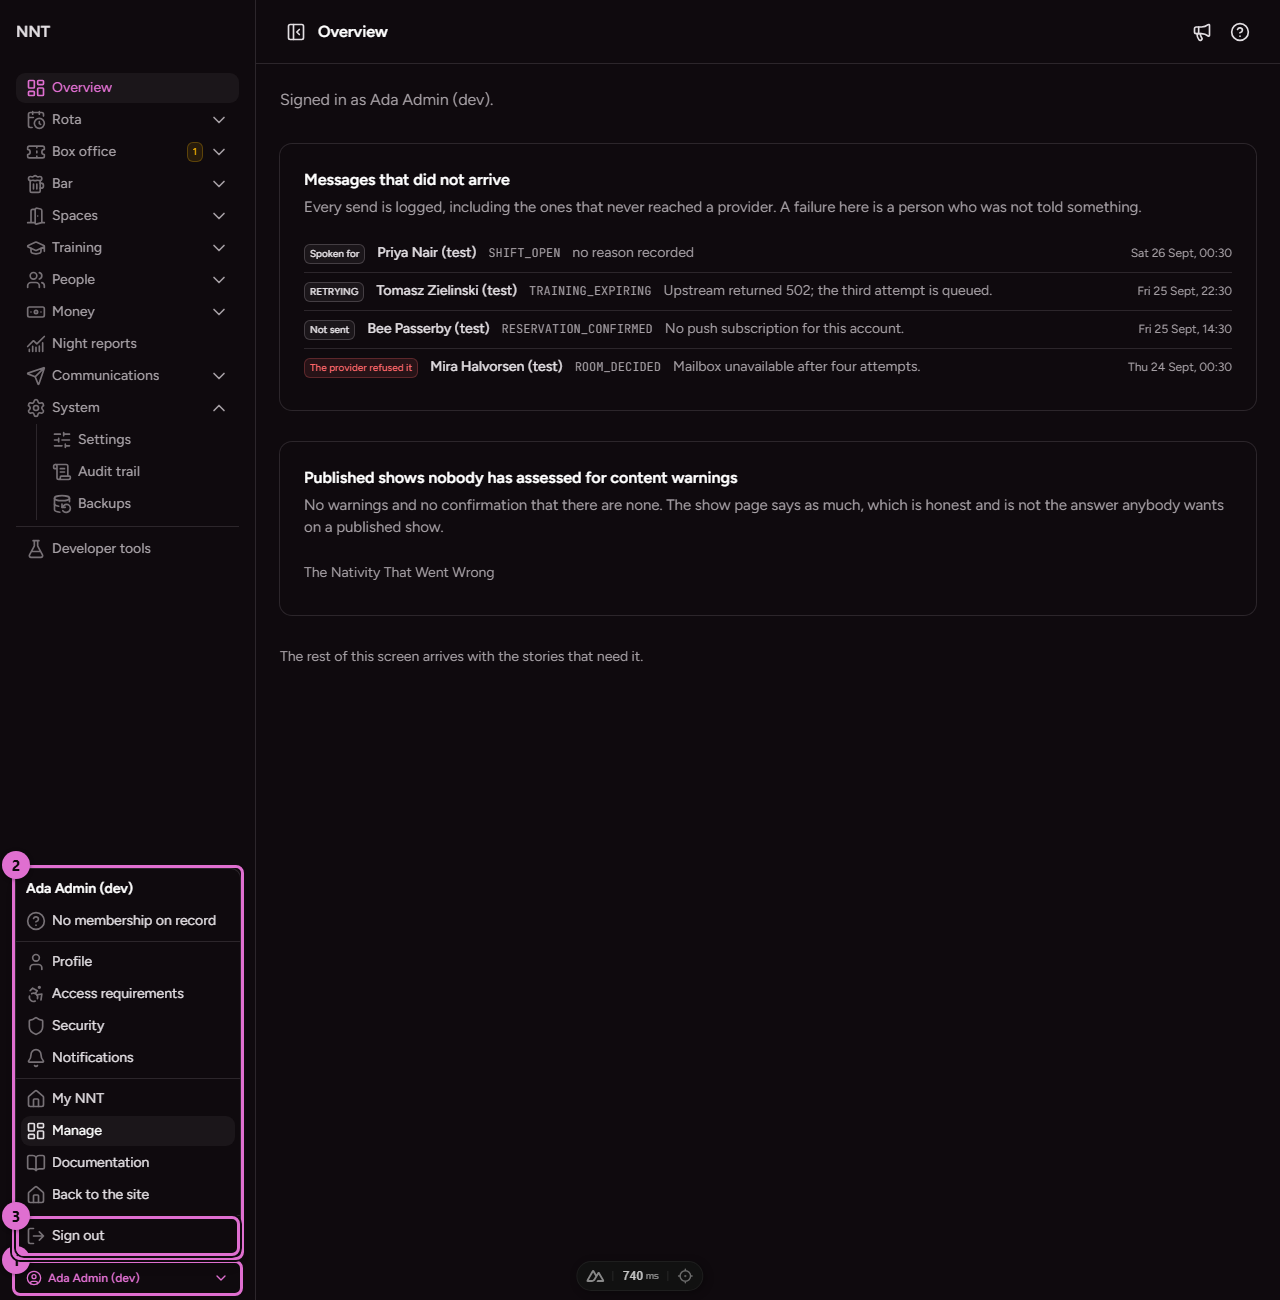
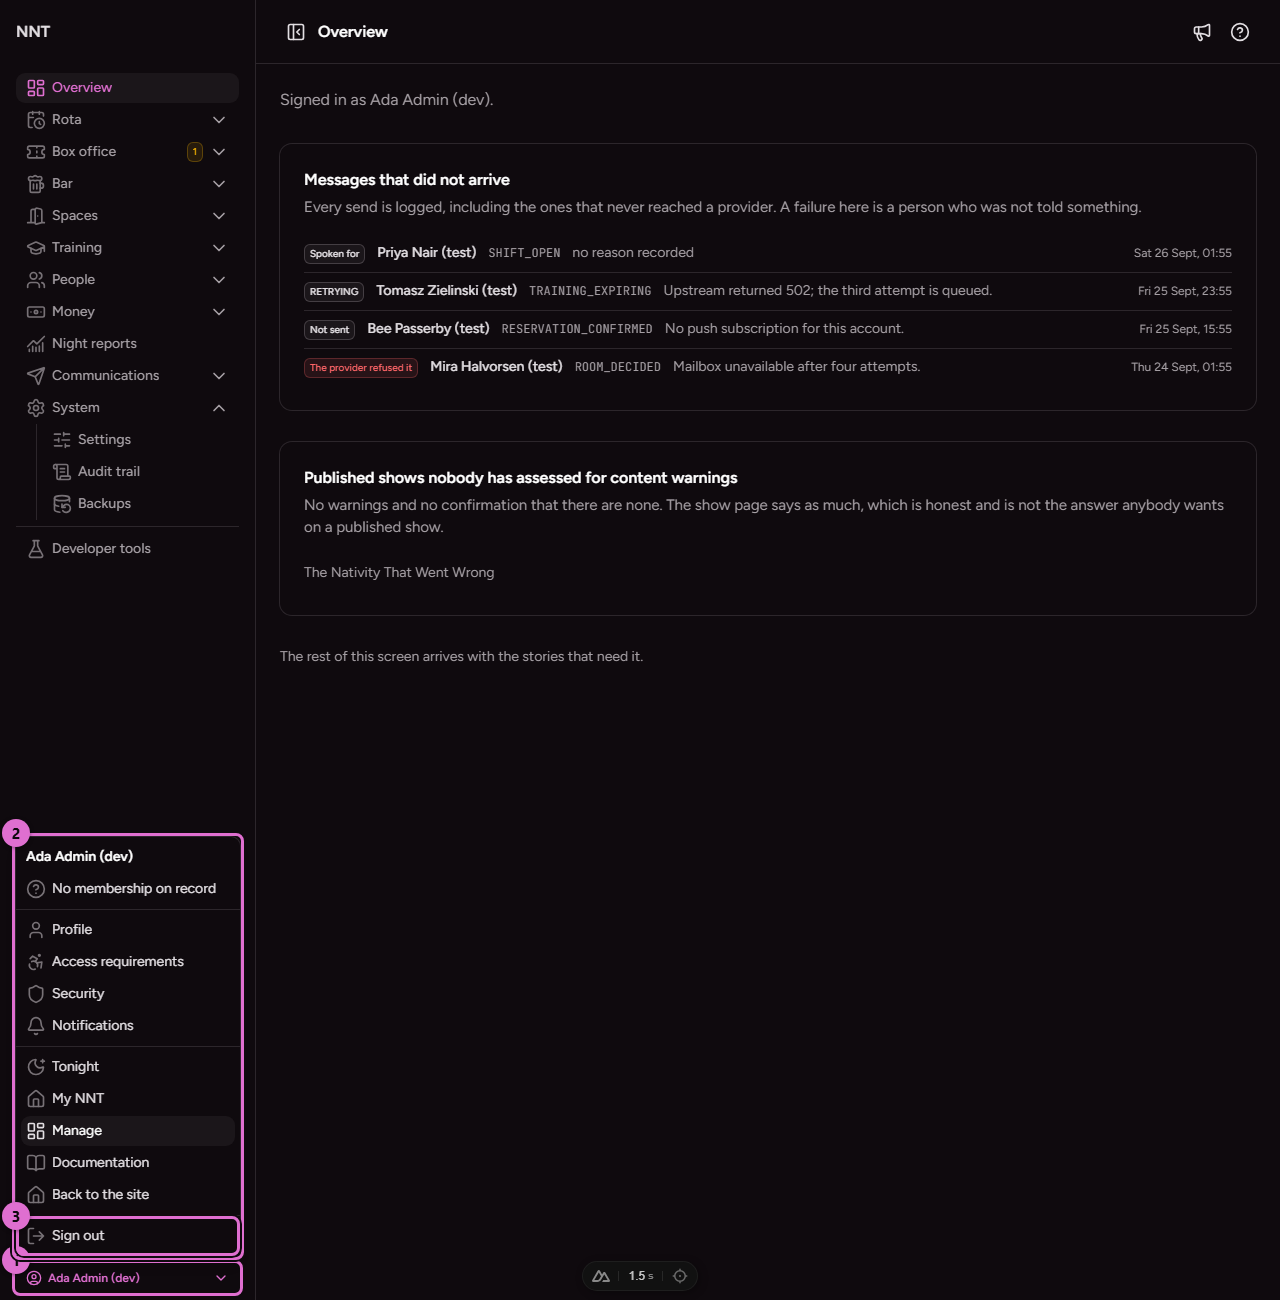
Offer Tonight in the member strip by the same fact, carry the bar tab fact through both resolvers, and retake the account menu picture
After the member nav change merged: MY_NAV's Tonight entry reads canWorkTonight,
both session resolvers pass keepsBarTab beside the new onShiftTonight, and the
wiki's member strip line covers officers who hold a night permission.

Changed region(s): [[0.0, 0.6154, 0.1875, 0.8308], [0.875, 0.2462, 0.9375, 0.3077], [0.9062, 0.1846, 0.9375, 0.2154]]

diff --git a/tests/unit/site-nav.test.ts b/tests/unit/site-nav.test.ts
@@ -1,6 +1,6 @@
 import { describe, expect, test } from 'bun:test'
 import { join } from 'node:path'
-import { ABILITY_PERMISSIONS, keepBarTab, signedIn, viewReports, workTonight } from '#shared/utils/abilities'
+import { ABILITY_PERMISSIONS, canWorkTonight, keepBarTab, signedIn, viewReports } from '#shared/utils/abilities'
 import { contentPathOf } from '#shared/utils/docs-paths'
 import { PERMISSIONS } from '#shared/utils/roles'
 import { ACCOUNT_NAV, CONSOLE_HOME, CONSOLE_NAV, HEADER_NAV, MY_NAV, NAV_SECTIONS, PUBLIC_GROUPS, PUBLIC_NAV, SHELL_NAV, entryFor, groupFor, navCount } from '#shared/utils/site-nav'
@@ -240,7 +240,7 @@ describe('the members area and the account settings never overlap (K-127 criteri
   test('Tonight is there while the member works tonight, and the bar tab only for somebody who keeps one', () => {
     const conditional = MY_NAV.filter(entry => entry.ability !== signedIn)
     expect(conditional.map(entry => entry.to)).toEqual(['/tonight', '/account/bar-tab'])
-    expect(conditional.find(entry => entry.to === '/tonight')?.ability).toBe(workTonight)
+    expect(conditional.find(entry => entry.to === '/tonight')?.ability).toBe(canWorkTonight)
     expect(conditional.find(entry => entry.to === '/account/bar-tab')).toMatchObject({ label: 'Bar tab', ability: keepBarTab })
   })
 

diff --git a/tests/unit/work-tonight.test.ts b/tests/unit/work-tonight.test.ts
@@ -12,7 +12,7 @@ import type { Permission } from '#shared/utils/roles'
 // amending 0040, issue 1305). The query behind `onShiftTonight` is pinned in tests/integration.
 
 const viewer = (onShiftTonight: boolean, permissions: Permission[] = []): Viewer =>
-  ({ id: 'someone', permissions, onShiftTonight, leadsDepartment: false, isTrainer: false, membershipState: { kind: 'none' } })
+  ({ id: 'someone', permissions, onShiftTonight, leadsDepartment: false, isTrainer: false, keepsBarTab: false, membershipState: { kind: 'none' } })
 
 describe('a person can work tonight on a shift in its window, or by a night permission (0094)', () => {
   test('a confirmed shift in its window is enough, with no permission at all', () => {

diff --git a/shared/utils/site-nav.ts b/shared/utils/site-nav.ts
@@ -272,7 +272,7 @@ export const MY_NAV: NavEntry[] = [
 
   // Module E: show night
 
-  { label: 'Tonight', icon: 'i-lucide-moon-star', to: '/tonight', ability: workTonight },
+  { label: 'Tonight', icon: 'i-lucide-moon-star', to: '/tonight', ability: canWorkTonight },
   { label: 'Rota', icon: 'i-lucide-clipboard-list', to: '/rota', ability: signedIn, exact: true },
 
   // Module C: spaces. Not exact, so My bookings and the booking form light it too.

diff --git a/content/docs/01.getting-started/4.finding-your-way.md b/content/docs/01.getting-started/4.finding-your-way.md
@@ -47,10 +47,10 @@ Press your name at the top right of any screen (in the sidebar's foot on a conso
 Somewhere you cannot open is not listed. Tonight is listed while you are on shift, which means
 a confirmed shift (on a performance or a bar opening) inside its own hours with a little grace
 either side, and for anybody whose role opens the night without a shift (the Front of House
-Manager, the Bar Manager and the IT Manager). A claim waiting for an officer does not count. While you are on shift a bar
-under the header of every public and member page says so, with **Open Tonight**, and signing in
-lands you on Tonight unless the link you followed was going somewhere else. It is also reached
-from the **Next shift** tile on My NNT.
+Manager, the Bar Manager and the IT Manager). A claim waiting for an officer does not count.
+While you are on shift a bar under the header of every public and member page says so, with
+**Open Tonight**, and signing in lands you on Tonight unless the link you followed was going
+somewhere else. It is also reached from the **Next shift** tile on My NNT.
 
 ## Manage
 
@@ -103,8 +103,9 @@ disagree.
 ## My NNT
 
 The strip under the header lists your own screens, in this order: My NNT, Rota, Rooms,
-Training, Passes and Membership. Tonight joins it, second, while you work a show tonight, and Bar
-tab while you keep a tab. Each label is the heading of the page it opens. A job's second page is
+Training, Passes and Membership. Tonight joins it, second, while you can work tonight (on shift,
+or holding a role that opens the night without a shift, as the Front of House Manager, the Bar
+Manager and the IT Manager do), and Bar tab while you keep a tab. Each label is the heading of the page it opens. A job's second page is
 linked from its own screen: My bookings from Rooms, and Training sessions from Training. On a
 phone there is no strip: the header's menu button holds the same list. Access requirements sits
 with Profile, Security and Notifications in your account settings.
